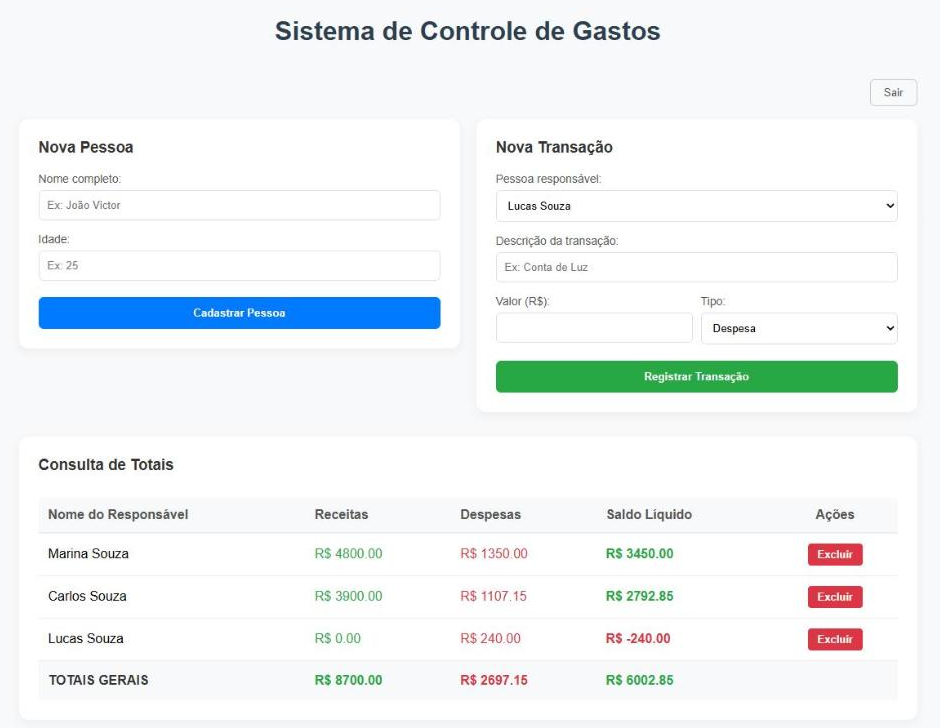
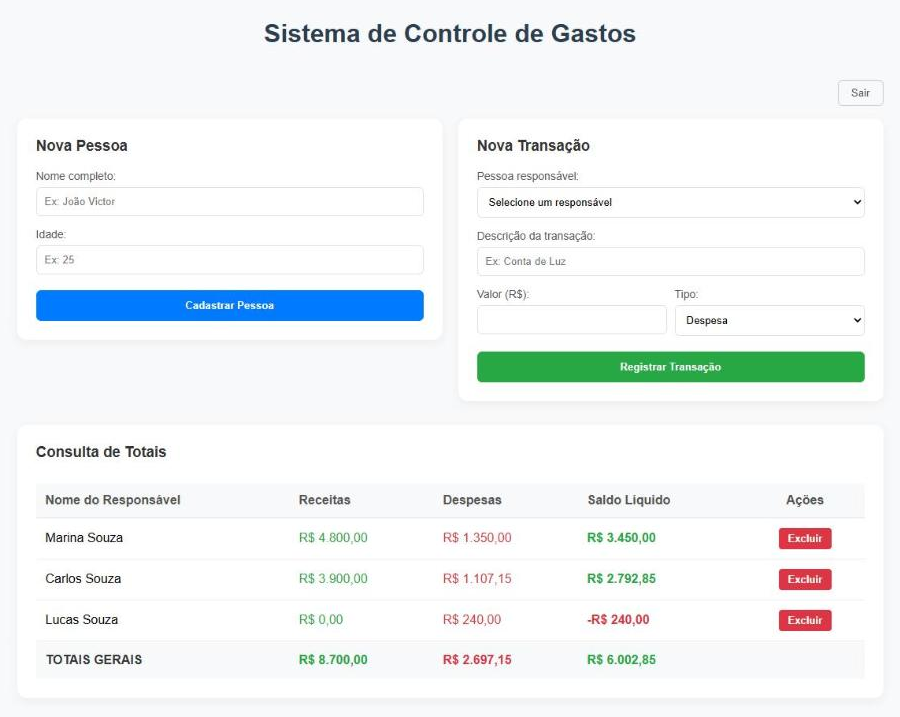
Valores em reais no formato brasileiro

diff --git a/CashFlow.Web/src/features/pessoas/components/ConsultaTotais.tsx b/CashFlow.Web/src/features/pessoas/components/ConsultaTotais.tsx
@@ -3,6 +3,8 @@ import { api } from '../../../infra/api';
 import type { PessoaTotal } from '../types';
 import { toast } from 'react-toastify';
 
+const reais = new Intl.NumberFormat('pt-BR', { style: 'currency', currency: 'BRL' });
+
 interface ConsultaTotaisProps {
   refreshKey: number;
   onActionSuccess: () => void; // Callback para propagar atualizações de estado
@@ -67,13 +69,13 @@ export function ConsultaTotais({ refreshKey, onActionSuccess }: ConsultaTotaisPr
               <tr key={pessoa.id} style={{ transition: 'background-color 0.2s' }}>
                 <td style={{ padding: '12px', borderBottom: '1px solid #eee' }}>{pessoa.nome}</td>
                 <td style={{ padding: '12px', borderBottom: '1px solid #eee', color: '#28a745', fontWeight: '500' }}>
-                  R$ {pessoa.totalReceitas.toFixed(2)}
+                  {reais.format(pessoa.totalReceitas)}
                 </td>
                 <td style={{ padding: '12px', borderBottom: '1px solid #eee', color: '#dc3545', fontWeight: '500' }}>
-                  R$ {pessoa.totalDespesas.toFixed(2)}
+                  {reais.format(pessoa.totalDespesas)}
                 </td>
                 <td style={{ padding: '12px', borderBottom: '1px solid #eee', fontWeight: 'bold', color: pessoa.saldo >= 0 ? '#28a745' : '#dc3545' }}>
-                  R$ {pessoa.saldo.toFixed(2)}
+                  {reais.format(pessoa.saldo)}
                 </td>
                 <td style={{ padding: '12px', borderBottom: '1px solid #eee', textAlign: 'center' }}>
                   <button 
@@ -89,10 +91,10 @@ export function ConsultaTotais({ refreshKey, onActionSuccess }: ConsultaTotaisPr
           <tfoot>
             <tr style={{ backgroundColor: '#f8f9fa' }}>
               <td style={{ padding: '15px 12px', fontWeight: 'bold', color: '#333' }}>TOTAIS GERAIS</td>
-              <td style={{ padding: '15px 12px', color: '#28a745', fontWeight: 'bold' }}>R$ {dados.totalGeralReceitas.toFixed(2)}</td>
-              <td style={{ padding: '15px 12px', color: '#dc3545', fontWeight: 'bold' }}>R$ {dados.totalGeralDespesas.toFixed(2)}</td>
+              <td style={{ padding: '15px 12px', color: '#28a745', fontWeight: 'bold' }}>{reais.format(dados.totalGeralReceitas)}</td>
+              <td style={{ padding: '15px 12px', color: '#dc3545', fontWeight: 'bold' }}>{reais.format(dados.totalGeralDespesas)}</td>
               <td style={{ padding: '15px 12px', fontWeight: 'bold', fontSize: '16px', color: dados.saldoLiquidoGeral >= 0 ? '#28a745' : '#dc3545' }}>
-                R$ {dados.saldoLiquidoGeral.toFixed(2)}
+                {reais.format(dados.saldoLiquidoGeral)}
               </td>
               <td></td>
             </tr>
